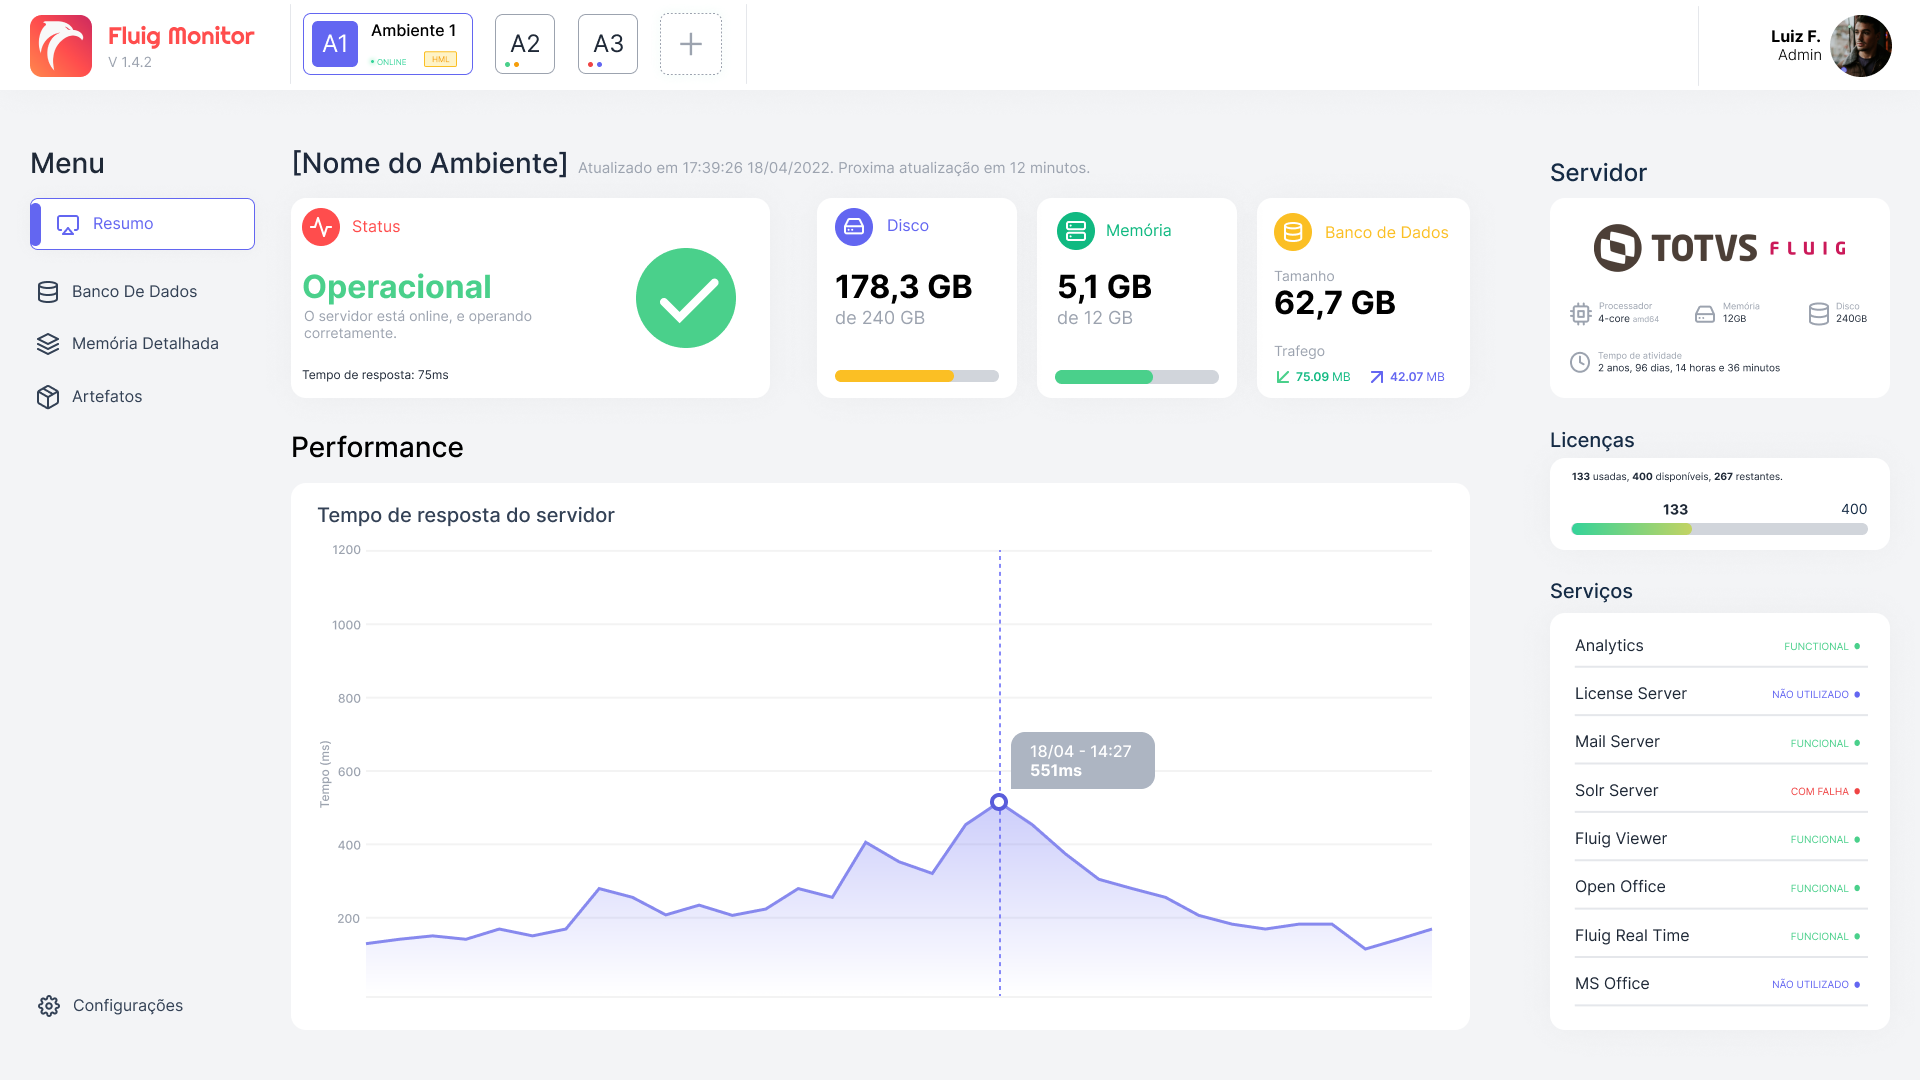
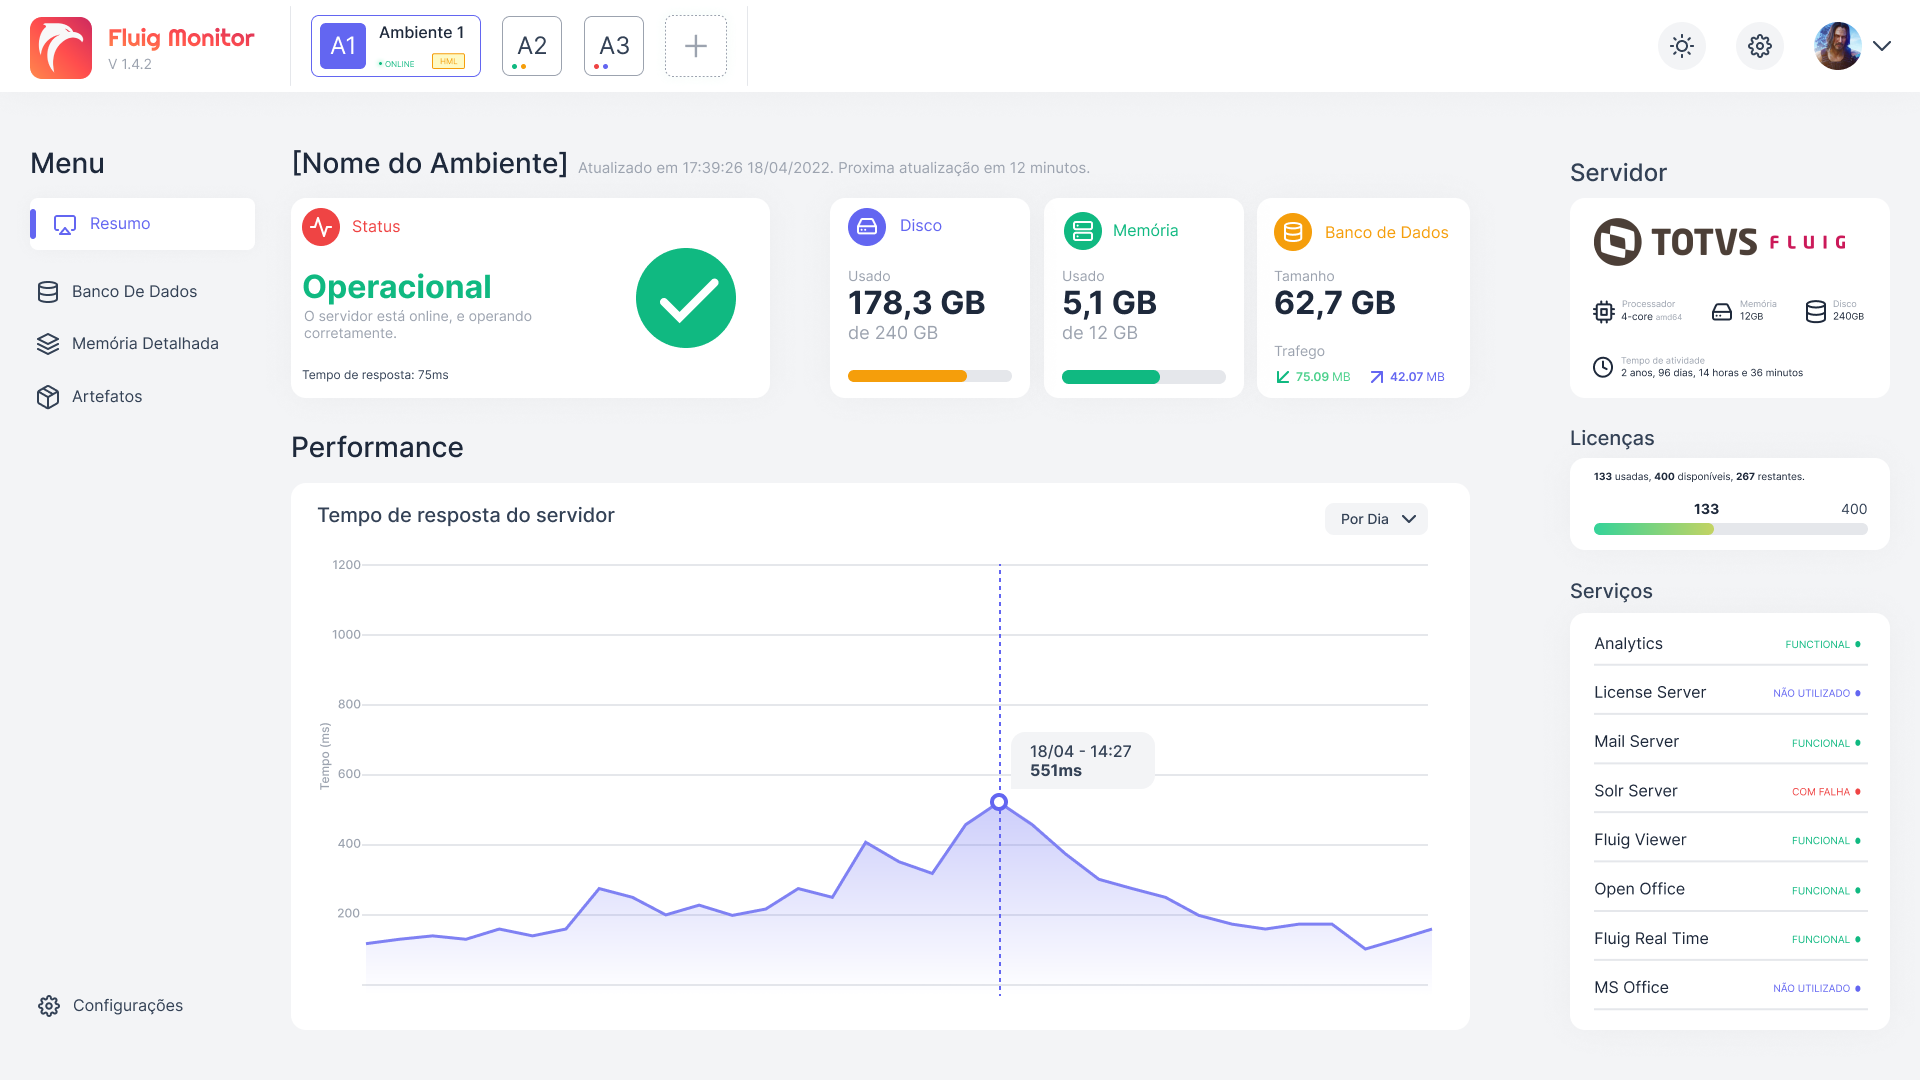
docs: dark mode prototype added

diff --git a/src/main/main.ts b/src/main/main.ts
@@ -179,10 +179,8 @@ const createWindow = async () => {
     }
   });
 
-  // change the language to Portuguese by default // on i18n initialization
-  // i18n.on('initialized', () => {
+  // change the language to the locally saved language
   i18n.changeLanguage(savedLanguage);
-  // });
 
   mainWindow.on('ready-to-show', () => {
     if (!mainWindow) {

diff --git a/docs/README.md b/docs/README.md
@@ -8,15 +8,21 @@
 
 A desktop application, developed with **Electron**, used to monitor **Fluig** ambients.
 
-The monitoring is done trough the monitoring and statistics **API**, as shown on the [documentation](https://tdn.engpro.totvs.com.br/pages/releaseview.action?pageId=284881802).
+The monitoring is done trough the monitoring and statistics **API**, as shown on the [documentation](https://tdn.totvs.com/display/fluigeng/Platform+%7C+Platform+Services+Monitor).
 
-This application is being developed for **educational** purposes, with the intention of learning a bit more about `React`, `Electron`, `Typescript`, and the use of Fluig `APIs`.
+This application is being developed for **educational** purposes, with the intention of learning a bit more about UI/UX, development with `React`, `Electron`, `Typescript`, and the use of Fluig `APIs`.
 
 ## Images
 
+### White Theme
+
 ![Desktop](./img/desktop_LT2022-04_AmbientView.png)
 
-> The above image is a **prototype**, and is heavily subject to changes.
+### Dark Theme
+
+![Desktop Dark](./img/desktop_LT2022-04_AmbientView_Dark.png)
+
+> The above images are **prototypes**, and are subject to changes.
 
 ## Features
 

diff --git a/README.md b/README.md
@@ -10,13 +10,19 @@ Uma aplicação desktop, desenvolvida em **Electron**, utilizada para monitorar 
 
 O monitoramento é realizado através das **APIs** de monitoramento e estatísticas, conforme a [documentação](https://tdn.engpro.totvs.com.br/pages/releaseview.action?pageId=284881802).
 
-Esta aplicação está sendo desenvolvida para fins **didáticos**, com a intenção de aprender um pouco sobre o desenvolvimento com `React`, `Electron`, `Typescript`, e o uso das `APIs` do Fluig.
+Esta aplicação está sendo desenvolvida para fins **didáticos**, com a intenção de aprender um pouco sobre UI/UX, desenvolvimento com `React`, `Electron`, `Typescript`, e o uso das `APIs` do Fluig.
 
 ## Imagens
 
+### Modo Claro
+
 ![Desktop](./docs/img/desktop_LT2022-04_AmbientView.png)
 
-> A imagem acima é um **protótipo** da aplicação, e irá sofrer mudanças.
+### Modo Escuro
+
+![Desktop Dark](./docs/img/desktop_LT2022-04_AmbientView_Dark.png)
+
+> As imagens acima são **protótipos** da aplicação, e estão sujeiras à mudanças.
 
 ## Funcionalidades
 
